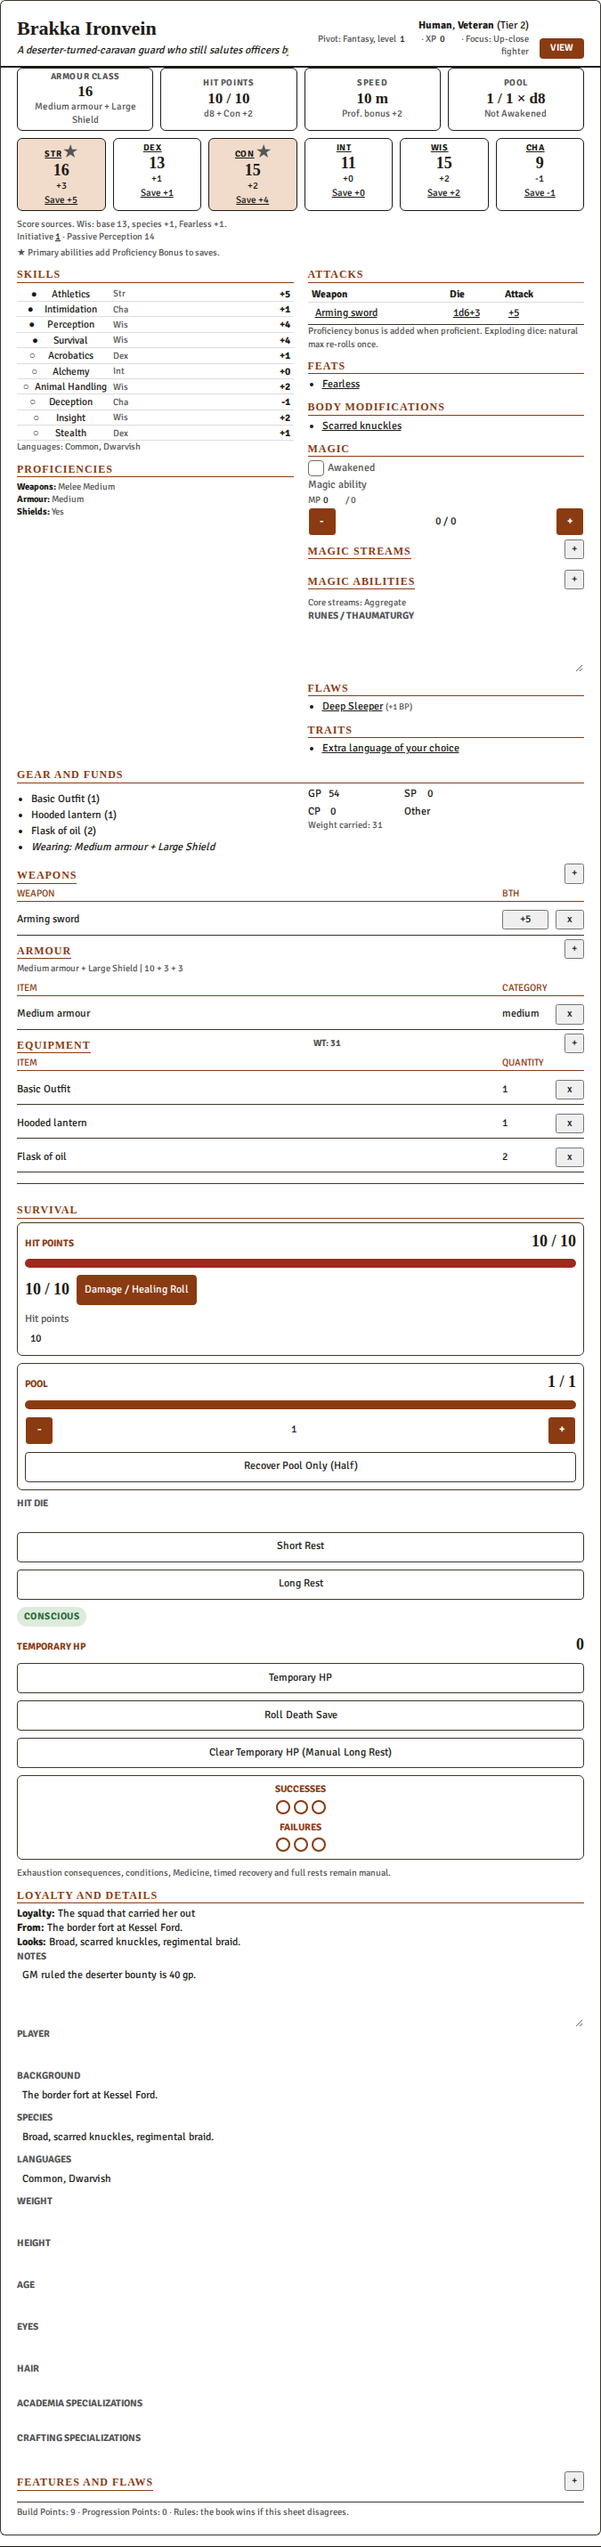
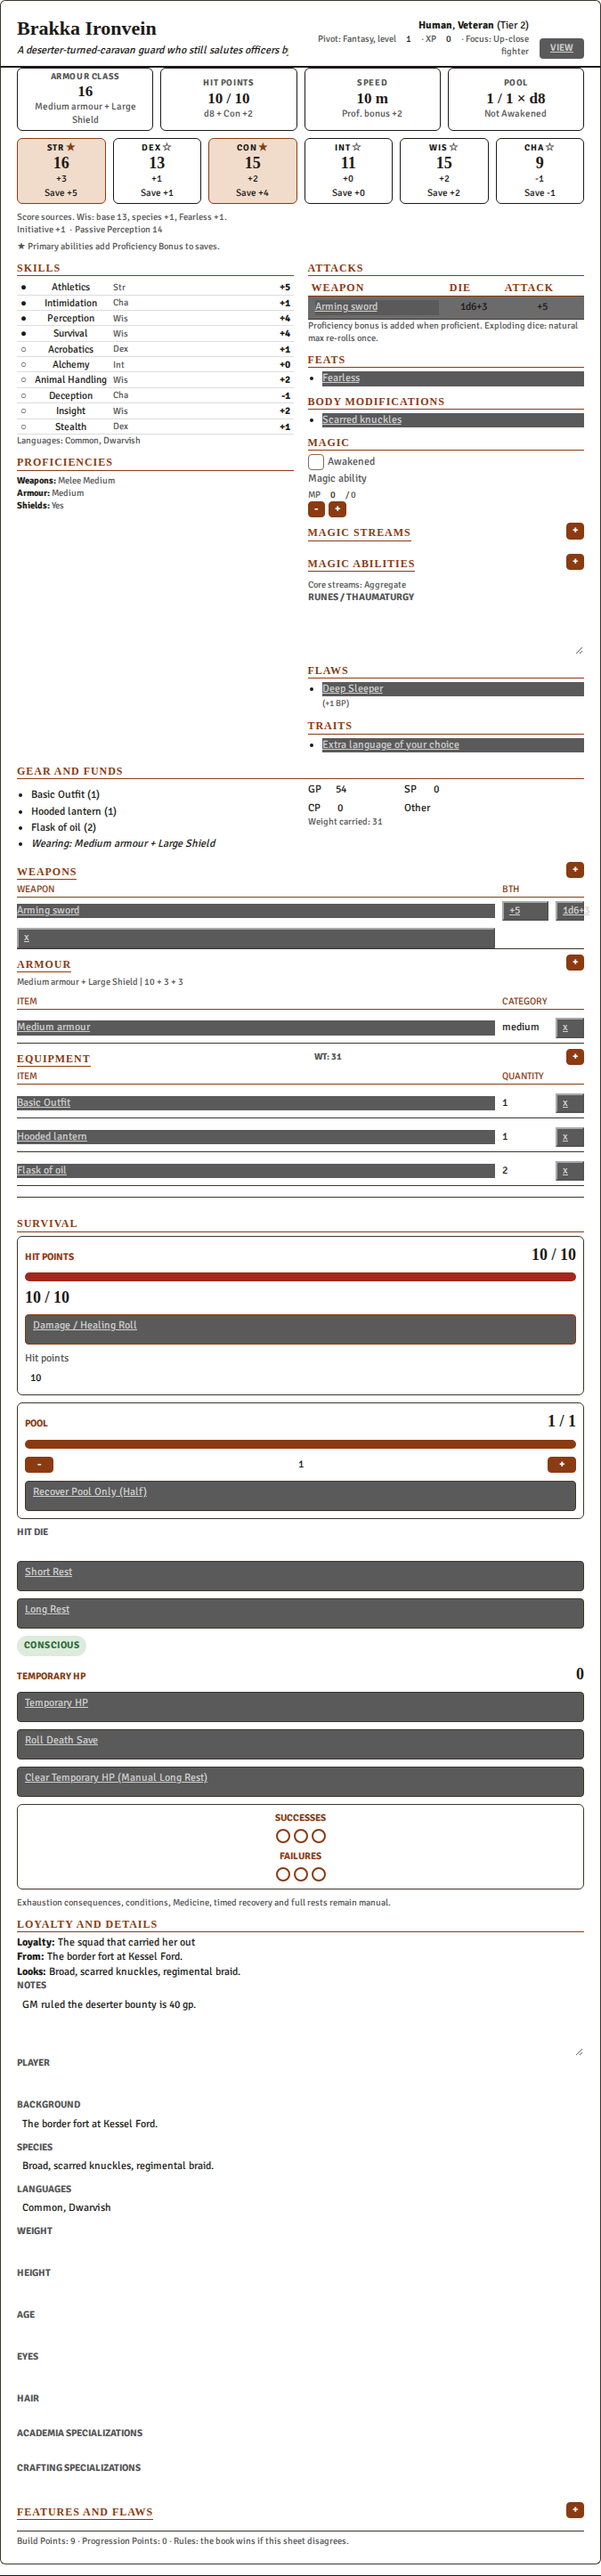
fix: keep the print sheet paper under Foundry theme chrome
Skill cells, attack headings, and roll buttons now outrank the dark
interface rules. Primary abilities show an outlined star until selected,
initiative is one muted signed line, and MP is read once.

Changed region(s): [[0.0311, 0.0, 0.9956, 0.9955], [0.9333, 0.9643, 0.9644, 0.9955], [0.7778, 0.0, 0.8089, 0.0311]]

diff --git a/styles/pivot-fantasy.css b/styles/pivot-fantasy.css
@@ -1750,3 +1750,247 @@
   box-shadow: none;
   color: var(--pf-sheet-ink);
 }
+
+/* Beat Foundry v14 theme rules on table cells, headings, and buttons. */
+:is(body, body.theme-dark, body.theme-light)
+  .pivot-fantasy.sheet.actor.character
+  .window-content
+  .pf-print
+  table.pf-skills
+  tbody
+  tr:nth-child(odd)
+  td,
+:is(body, body.theme-dark, body.theme-light)
+  .pivot-fantasy.sheet.actor.character
+  .window-content
+  .pf-print
+  table.pf-skills
+  tbody
+  tr:nth-child(even)
+  td {
+  background: #fff;
+  border-bottom: 1px solid #ddd;
+  color: #1c1a16;
+  text-align: left;
+}
+
+:is(body, body.theme-dark, body.theme-light)
+  .pivot-fantasy.sheet.actor.character
+  .window-content
+  .pf-print
+  table.pf-skills
+  tbody
+  tr:nth-child(odd)
+  td.pf-small,
+:is(body, body.theme-dark, body.theme-light)
+  .pivot-fantasy.sheet.actor.character
+  .window-content
+  .pf-print
+  table.pf-skills
+  tbody
+  tr:nth-child(even)
+  td.pf-small {
+  color: #555;
+  font-size: 10.5px;
+}
+
+:is(body, body.theme-dark, body.theme-light)
+  .pivot-fantasy.sheet.actor.character
+  .window-content
+  .pf-print
+  table.pf-skills
+  tbody
+  tr:nth-child(odd)
+  td.pf-r,
+:is(body, body.theme-dark, body.theme-light)
+  .pivot-fantasy.sheet.actor.character
+  .window-content
+  .pf-print
+  table.pf-skills
+  tbody
+  tr:nth-child(even)
+  td.pf-r {
+  text-align: right;
+}
+
+:is(body, body.theme-dark, body.theme-light)
+  .pivot-fantasy.sheet.actor.character
+  .window-content
+  .pf-print
+  table.pf-skills
+  .pf-check,
+:is(body, body.theme-dark, body.theme-light)
+  .pivot-fantasy.sheet.actor.character
+  .window-content
+  .pf-print
+  table.pf-skills
+  .pf-check
+  span {
+  color: #1c1a16;
+  text-align: left;
+}
+
+:is(body, body.theme-dark, body.theme-light)
+  .pivot-fantasy.sheet.actor.character
+  .window-content
+  .pf-print
+  button.pf-roll {
+  background: transparent;
+  color: #1c1a16;
+  display: inline;
+  flex: 0 0 auto;
+  padding: 0;
+  text-decoration: none;
+  width: auto;
+}
+
+:is(body, body.theme-dark, body.theme-light)
+  .pivot-fantasy.sheet.actor.character
+  .window-content
+  .pf-print
+  table.pf-skills
+  td.pf-r
+  .pf-roll {
+  font-weight: 700;
+  text-align: right;
+}
+
+:is(body, body.theme-dark, body.theme-light)
+  .pivot-fantasy.sheet.actor.character
+  .window-content
+  .pf-print
+  .pf-init-line {
+  align-items: baseline;
+  color: #555;
+  display: flex;
+  flex-wrap: wrap;
+  gap: 0.35em;
+  margin: 0 0 4px;
+}
+
+:is(body, body.theme-dark, body.theme-light)
+  .pivot-fantasy.sheet.actor.character
+  .window-content
+  .pf-print
+  .pf-init-line
+  .pf-roll {
+  color: inherit;
+  font: inherit;
+}
+
+:is(body, body.theme-dark, body.theme-light)
+  .pivot-fantasy.sheet.actor.character
+  .window-content
+  .pf-print
+  table.pf-attacks
+  thead,
+:is(body, body.theme-dark, body.theme-light)
+  .pivot-fantasy.sheet.actor.character
+  .window-content
+  .pf-print
+  table.pf-attacks
+  thead
+  th {
+  background: #fff;
+  border-bottom: 1.5px solid #8a3b12;
+  box-shadow: none;
+  color: #8a3b12;
+  font-family: Georgia, "Iowan Old Style", serif;
+  font-size: 12px;
+  font-weight: 700;
+  letter-spacing: 0.08em;
+  text-align: left;
+  text-transform: uppercase;
+}
+
+:is(body, body.theme-dark, body.theme-light)
+  .pivot-fantasy.sheet.actor.character
+  .window-content
+  .pf-print
+  input[type="number"] {
+  -moz-appearance: textfield;
+  appearance: textfield;
+}
+
+:is(body, body.theme-dark, body.theme-light)
+  .pivot-fantasy.sheet.actor.character
+  .window-content
+  .pf-print
+  input[type="number"]::-webkit-inner-spin-button,
+:is(body, body.theme-dark, body.theme-light)
+  .pivot-fantasy.sheet.actor.character
+  .window-content
+  .pf-print
+  input[type="number"]::-webkit-outer-spin-button {
+  -webkit-appearance: none;
+  appearance: none;
+  display: none;
+  margin: 0;
+}
+
+:is(body, body.theme-dark, body.theme-light)
+  .pivot-fantasy.sheet.actor.character
+  .window-content
+  .pf-print
+  .pf-ab.pf-prime {
+  background: #f1dccb;
+  border-color: #8a3b12;
+}
+
+:is(body, body.theme-dark, body.theme-light)
+  .pivot-fantasy.sheet.actor.character
+  .window-content
+  .pf-print
+  .pf-prime-mark {
+  color: #555;
+  font-size: 12px;
+  line-height: 1;
+}
+
+:is(body, body.theme-dark, body.theme-light)
+  .pivot-fantasy.sheet.actor.character
+  .window-content
+  .pf-print
+  .pf-ab.pf-prime
+  .pf-prime-mark {
+  color: #8a3b12;
+}
+
+:is(body, body.theme-dark, body.theme-light)
+  .pivot-fantasy.sheet.actor.character
+  .window-content
+  .pf-print
+  .pf-section-header
+  button,
+:is(body, body.theme-dark, body.theme-light)
+  .pivot-fantasy.sheet.actor.character
+  .window-content
+  .pf-print
+  .pf-resource-actions
+  button {
+  background: #8a3b12;
+  border: 1px solid #8a3b12;
+  border-radius: 4px;
+  color: #fff;
+  display: inline-flex;
+  flex: 0 0 auto;
+  font-weight: 700;
+  justify-content: center;
+  line-height: 1.2;
+  min-height: 0;
+  min-width: 1.5em;
+  padding: 1px 6px;
+  text-decoration: none;
+  width: auto;
+}
+
+:is(body, body.theme-dark, body.theme-light)
+  .pivot-fantasy.sheet.actor.character
+  .window-content
+  .pf-print
+  .pf-magic
+  .pf-resource-actions {
+  grid-template-columns: auto auto;
+  justify-content: start;
+  width: max-content;
+}

diff --git a/src/sheets/character-sheet.ts b/src/sheets/character-sheet.ts
@@ -153,6 +153,7 @@ export interface CharacterSheetContext {
     featureCategories: typeof featureCategories;
   };
   derived: ReturnType<typeof calculateCharacterDerived>;
+  initiativeText: string;
   abilityRows: Array<{
     key: AbilityKey;
     label: string;
@@ -517,6 +518,7 @@ export function prepareCharacterSheetContext(
       featureCategories,
     },
     derived,
+    initiativeText: formatSigned(derived.initiative),
     abilityRows: abilities.map(({ key, label, short }) => ({
       key,
       label,
